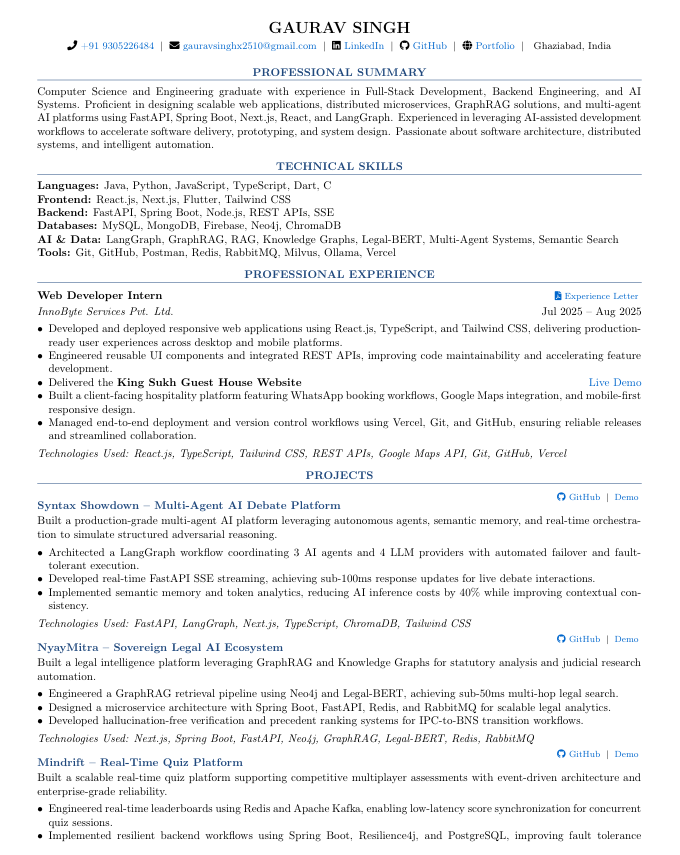
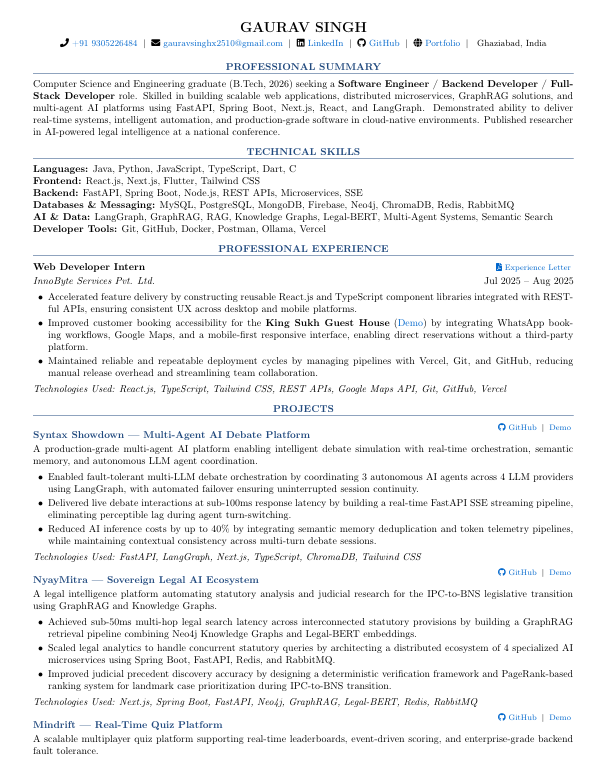
refactor: update resume images and drive download link

Changed region(s): [[0.0598, 0.0, 0.9568, 0.9846]]

diff --git a/src/components/CommandPalette.tsx b/src/components/CommandPalette.tsx
@@ -27,7 +27,7 @@ export default function CommandPalette({ isOpen, onClose }: CommandPaletteProps)
     { name: 'Navigate: Resume Timeline', type: 'nav', target: '#resume', icon: Hash, desc: 'Scroll to cinematic career journey' },
     { name: 'Navigate: Contact Direct', type: 'nav', target: '#contact', icon: Hash, desc: 'Scroll to message board' },
     { name: 'Interactive CLI Terminal', type: 'link', target: '/terminal', icon: Terminal, desc: 'Open full-screen developer shell' },
-    { name: 'Secure Resume Archive', type: 'link', target: 'https://drive.google.com/file/d/1hi-76hZb8VBDQjCF4gdeCgaUeMOlrOMj/view?usp=drive_link', icon: FileText, desc: 'View verified resume PDF' },
+    { name: 'Secure Resume Archive', type: 'link', target: 'https://drive.google.com/file/d/1oF2tNQGojLN20D1zKeOYkf-FdVH9jdox/view?usp=drive_link', icon: FileText, desc: 'View verified resume PDF' },
     { name: 'Outbound: GitHub Profile', type: 'link', target: 'https://github.com/GauravSingh094', icon: Github, desc: 'Browse verified source repositories' },
     { name: 'Outbound: LinkedIn Network', type: 'link', target: 'https://linkedin.com/in/gaurav-singh-276944292', icon: Linkedin, desc: 'Connect on professional network' },
   ];

diff --git a/src/components/AIAssistant.tsx b/src/components/AIAssistant.tsx
@@ -265,7 +265,7 @@ export default function AIAssistant() {
     { label: "Show Flutter Projects", query: "Show me Flutter and mobile application projects" },
     { label: "Backend Experience", query: "Show me Gaurav's backend development experience" },
     { label: "Why hire Gaurav?", query: "Why should I hire Gaurav as a systems and full-stack developer?" },
-    { label: "Download Resume", query: "Can you provide the link to download Gaurav's resume?", action: () => window.open("https://drive.google.com/file/d/1hi-76hZb8VBDQjCF4gdeCgaUeMOlrOMj/view?usp=drive_link", "_blank") },
+    { label: "Download Resume", query: "Can you provide the link to download Gaurav's resume?", action: () => window.open("https://drive.google.com/file/d/1oF2tNQGojLN20D1zKeOYkf-FdVH9jdox/view?usp=drive_link", "_blank") },
     { label: "Show Tech Stack", query: "What technical skills and backend technologies do you use?" }
   ];
 

diff --git a/src/app/terminal/page.tsx b/src/app/terminal/page.tsx
@@ -62,7 +62,7 @@ export default function TerminalPage() {
       ];
     },
     resume: () => {
-      window.open('https://drive.google.com/file/d/1hi-76hZb8VBDQjCF4gdeCgaUeMOlrOMj/view?usp=drive_link', '_blank');
+      window.open('https://drive.google.com/file/d/1oF2tNQGojLN20D1zKeOYkf-FdVH9jdox/view?usp=drive_link', '_blank');
       return ['Retrieving verified secure resume archive from Google Drive...', 'Action executed successfully in background browser tab.'];
     },
     contact: () => [

diff --git a/src/components/ResumeJourney.tsx b/src/components/ResumeJourney.tsx
@@ -59,7 +59,7 @@ export default function ResumeJourney() {
     setMagnifierPos({ x: mX, y: mY, bgX, bgY });
   };
 
-  const resumeUrl = "https://drive.google.com/file/d/1hi-76hZb8VBDQjCF4gdeCgaUeMOlrOMj/view?usp=drive_link";
+  const resumeUrl = "https://drive.google.com/file/d/1oF2tNQGojLN20D1zKeOYkf-FdVH9jdox/view?usp=drive_link";
 
   // Floating career highlights tags list
   const highlights = [

diff --git a/README.md b/README.md
@@ -24,7 +24,7 @@ A state-of-the-art personal developer portfolio website designed as an interacti
 ### 4. Optimized Resume Experience 2.0
 * **Interactive 3D Card**: An interactive 3D tilted card of Gaurav's resume with a responsive custom magnifier glass lens that follows cursor movements.
 * **Page 1 / Page 2 Toggle**: Integrated clickable page switching tabs located outside the interaction container to toggle between Page 1 and Page 2 of the resume preview seamlessly.
-* **Direct Google Drive Access**: Pinned glass CTA cards configured to open/download the verified resume archive from Google Drive: `https://drive.google.com/file/d/1hi-76hZb8VBDQjCF4gdeCgaUeMOlrOMj/view?usp=drive_link`.
+* **Direct Google Drive Access**: Pinned glass CTA cards configured to open/download the verified resume archive from Google Drive: `https://drive.google.com/file/d/1oF2tNQGojLN20D1zKeOYkf-FdVH9jdox/view?usp=drive_link`.
 
 ### 5. Sticky-Stacked Timeline Sections
 * **Selected Works Showcase (`#work`)**: A horizontal-stacked scroll storytelling viewport (`min-h-[500vh]`) tracking scroll depths to translate project cards.
